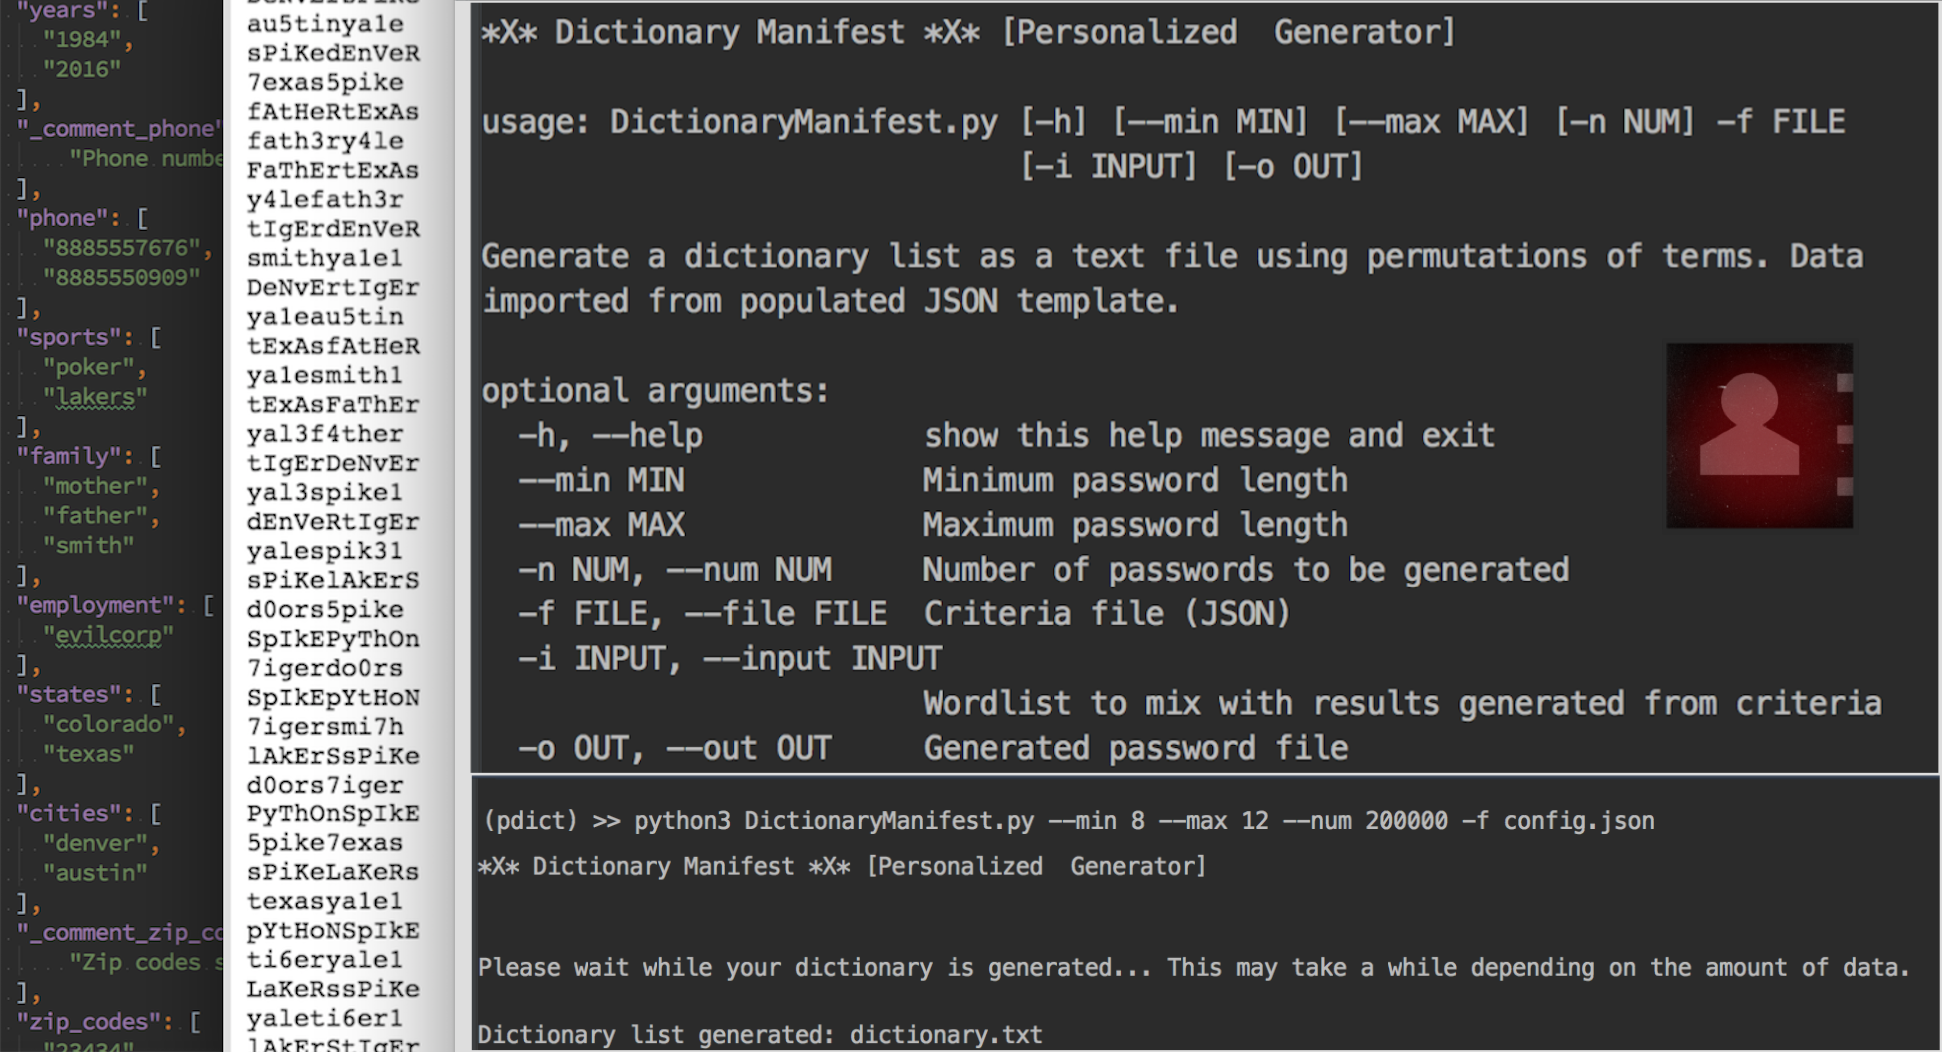
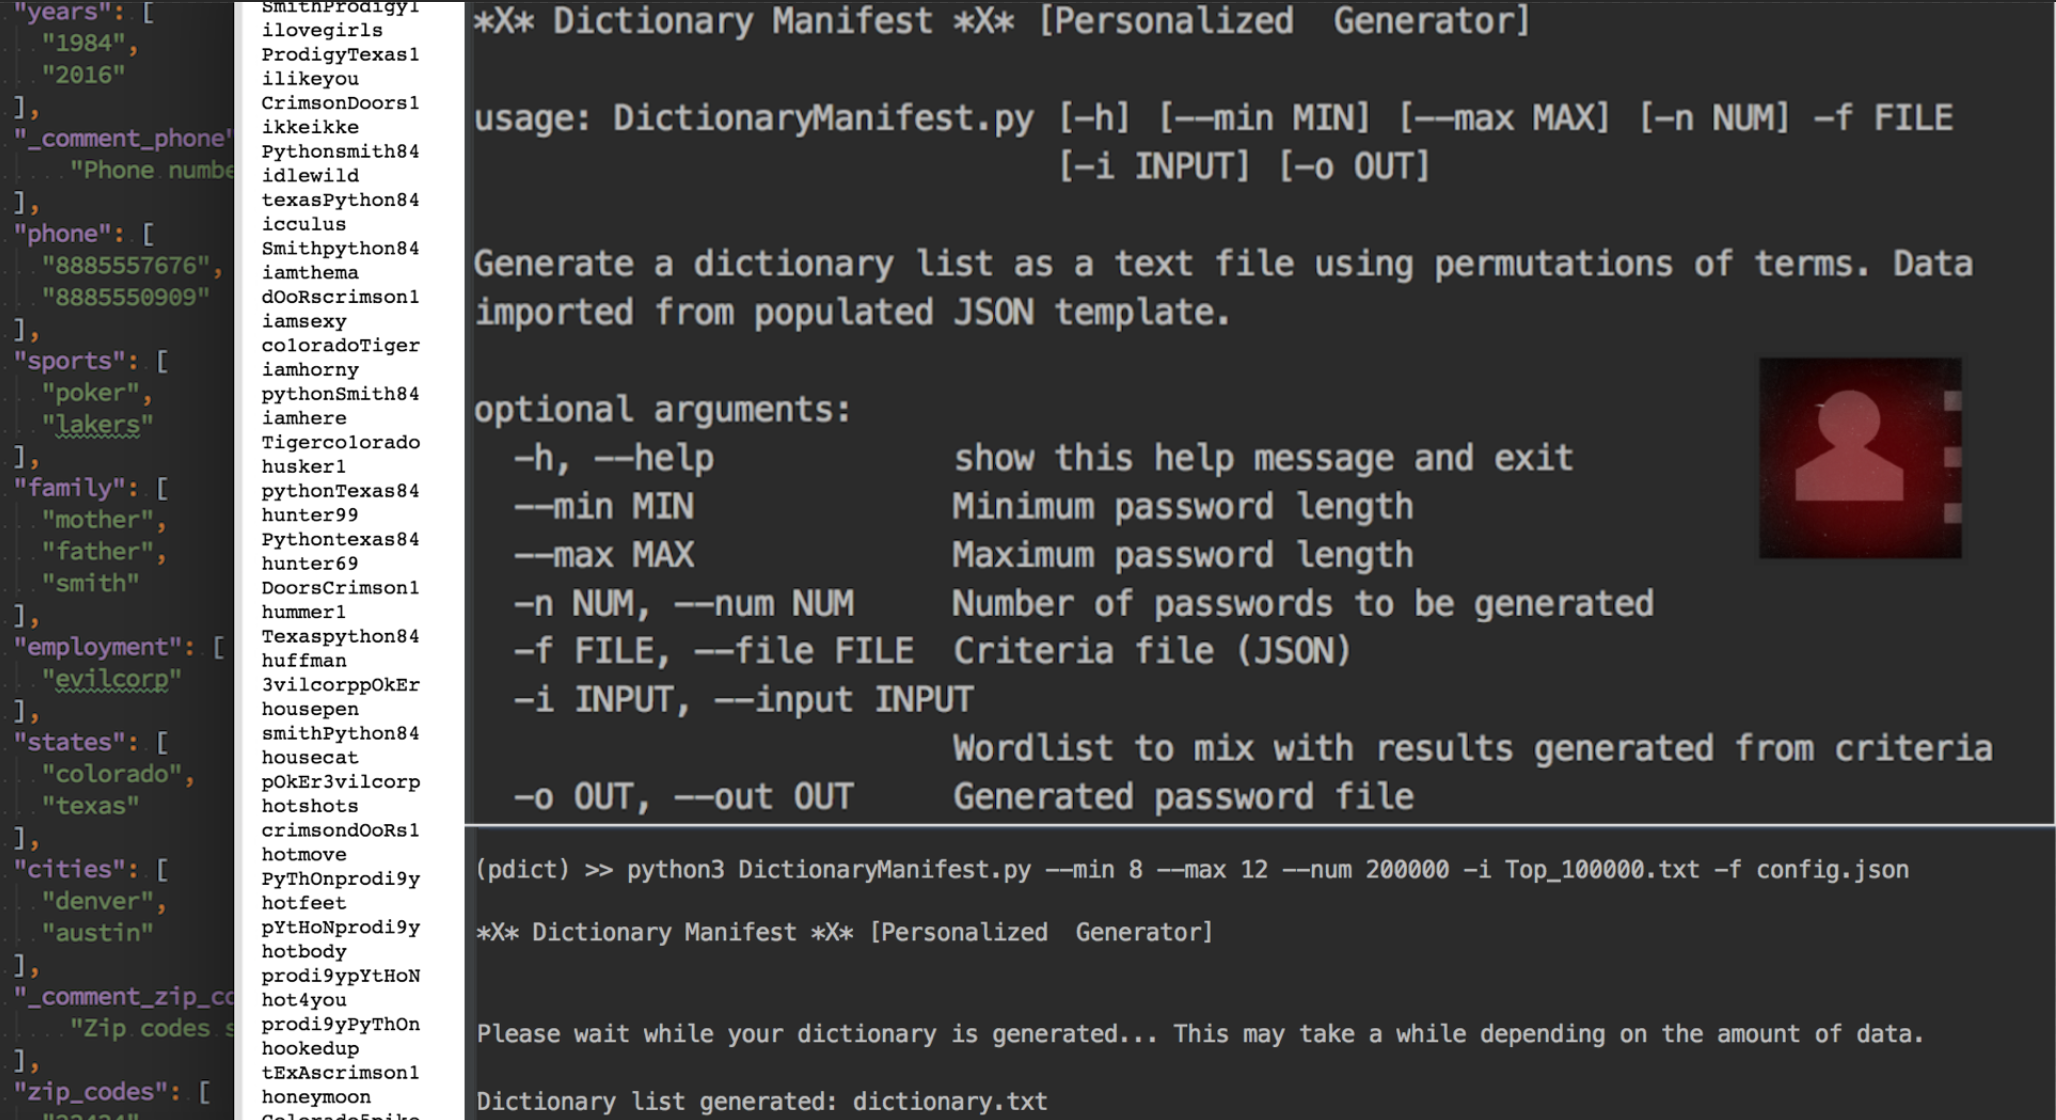
update image and readme for new functionality

Changed region(s): [[0.0, 0.0, 1.0, 1.0], [0.8651, 0.3954, 0.9269, 0.4563], [0.8651, 0.3042, 0.9578, 0.365]]

diff --git a/README.md b/README.md
@@ -4,7 +4,9 @@ A brute force attack attempts to determine a secret by trying every possible com
 
 In current times most brute force attacks against sufficiently chaotic passwords are unlikely to be successful within a reasonable time frame. A dictionary attack on the other hand retains its relevance in the insistence of so many users creating passwords that are based off of predictable information (e.g.: pet names, sports, family members, etc).
 
-Dictionary Manifest quickly generates an intelligent wordlist using permutations of terms entered into a JSON template. Terms are intended to be accumulated during information gathering phase of a penetration test. The more relevant the terms, the higher chance of success. See template 'config.json'.
+Dictionary Manifest quickly generates an intelligent wordlist using permutations of terms entered into a JSON template. Terms are intended to be accumulated during information gathering phase of a penetration test. The more relevant the terms, the higher chance of success. See template 'config.json'. 
+
+Existing wordlists can be imported and combined during generation of personalized lists.
 
 This is an open project and all developers are welcome to join.
 
